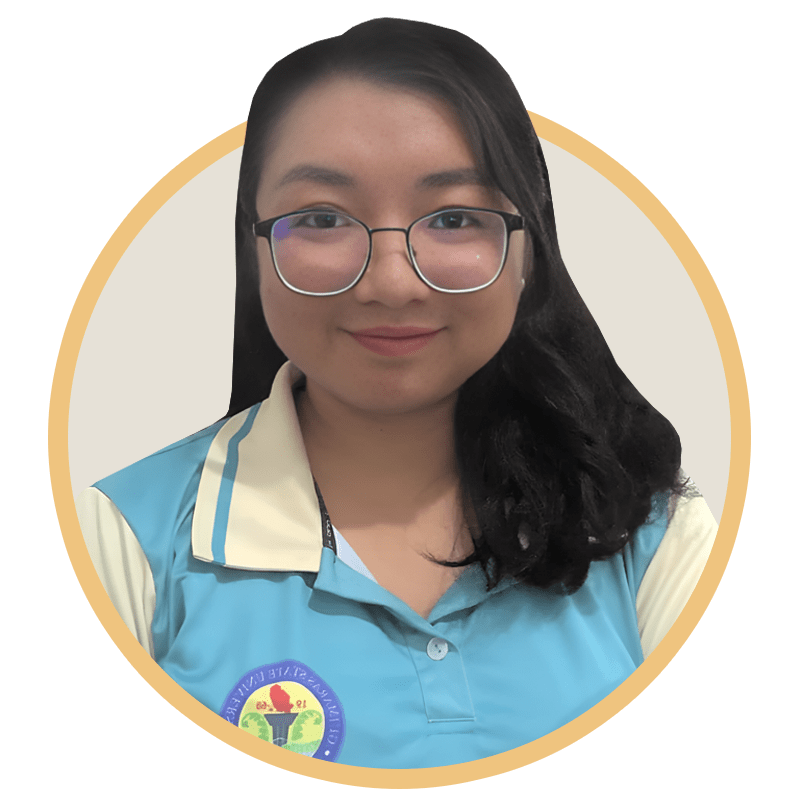
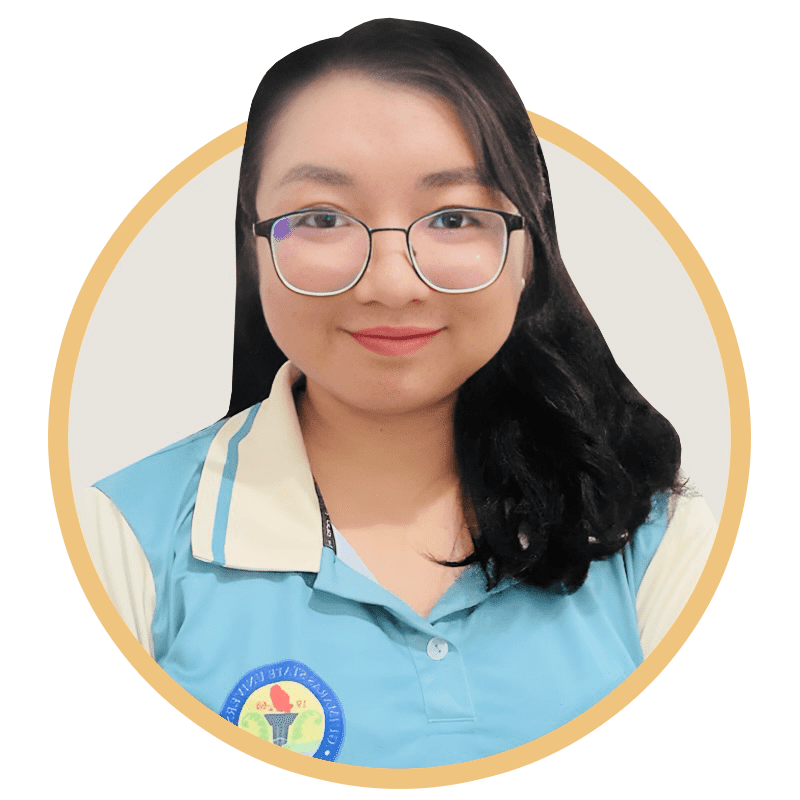
Updated the profile picture of gallego in the org. structure

diff --git a/data/src/view/organizational-structure.html b/data/src/view/organizational-structure.html
@@ -32,7 +32,7 @@ hsla(211, 80%, 33%, 1) 100%) fixed;">
         <div class="row my-4">
             <div class="col-xl-12">
                 <div class="row mb-5">
-                    <h1 style="font-size: 25px;" class="font-weight-bold w-100 mb-3 text-center">Federated Alumni Officers</h1>
+                    <h1 style="font-size: 25px;" class="font-weight-bold w-100 mb-3 text-center">Federated Alumni Association Officers</h1>
                     <div class="col-lg-4 col-sm-6 text-center mb-3">
                         <img  class="mb-1" src="/images/officers/soc-med-esmana-min.png" width="200px" alt="President">
                         <h3 class="mb-0 font-weight-bold">JEYSON G. ESMAÑA</h3>
